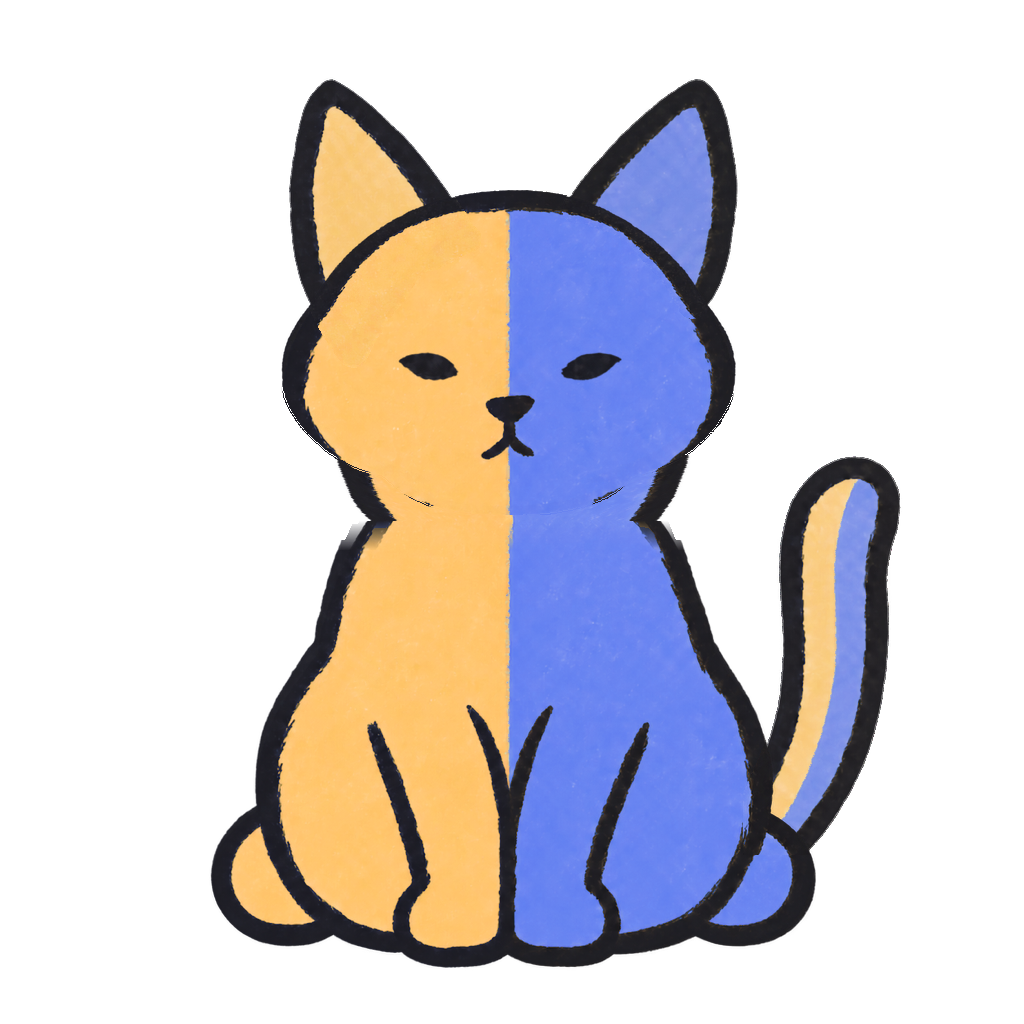
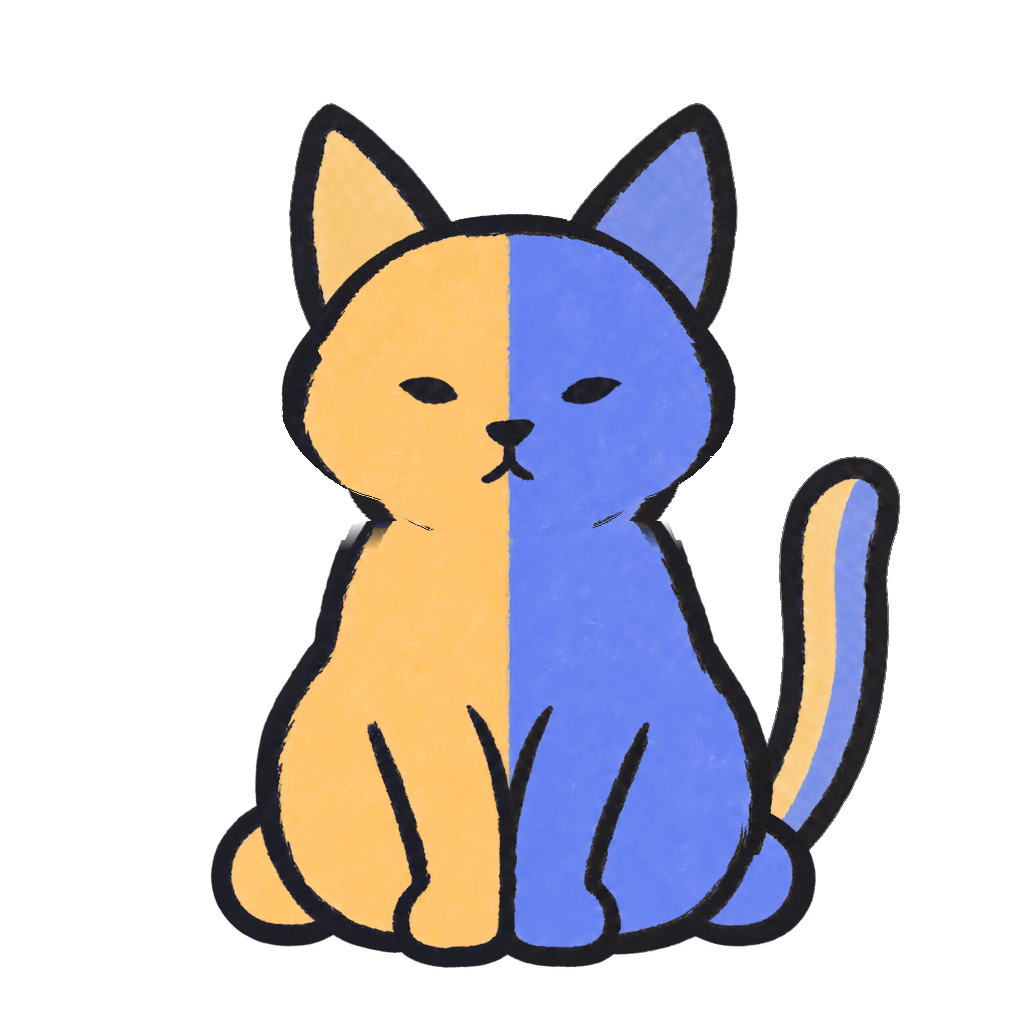
fix(pet): review fixes — close cheek pinholes, pixel-align the head drop
- A flood fill of the composite from outside found 126 enclosed
  see-through pixels along the inside of the cheek outlines; they're
  filled on the body layer with the nearest solid colour (0 remain) and
  the body's runtime copies are regenerated.
- cat-assembled-reference.png is regenerated with the head drop, so it
  matches what the app draws.
- The head drop moves into SharedPet's size-memoised pivots, rounded to a
  device pixel so the head's outline meets the body's cheek line on the
  same pixel grid; a plain View replaces the static Animated.View.
- The "never position a layer on its own" comment and CLAUDE.md rule now
  name the grouped head exception.

Claude-Session: https://claude.ai/code/session_012EzchSAnQHcjqHSd5QfHXD

Changed region(s): [[0.25, 0.0625, 0.7188, 0.5], [0.375, 0.3438, 0.625, 0.4688]]

diff --git a/src/components/SharedPet.tsx b/src/components/SharedPet.tsx
@@ -3,8 +3,10 @@ import {
   AccessibilityInfo,
   AppState,
   Image,
+  PixelRatio,
   Pressable,
   StyleSheet,
+  View,
 } from 'react-native';
 import Animated, {
   cancelAnimation,
@@ -21,6 +23,8 @@ import type { PetMood } from '@/types';
 
 // Hand-drawn layers on one shared square canvas: each is absolute-fill and
 // must never be cropped or positioned on its own, or the cat falls apart.
+// The one exception is deliberate and grouped: head, ears and eyes move
+// together by `headDrop` (see the pivots below).
 // Metro picks the @1x/@2x/@3x file (260/520/780px) for the screen.
 const BODY = require('../../assets/cat/runtime/cat-body.png');
 const HEAD = require('../../assets/cat/runtime/cat-head.png');
@@ -40,11 +44,6 @@ const LAYERS = {
 };
 type LayerName = keyof typeof LAYERS;
 
-// The head group (head, ears, eyes) sits this fraction of the canvas lower
-// than drawn -- 24px of the 1024 source. It shortens the neck and tucks the
-// body's cheek outline behind the head. Done here rather than by moving the
-// pixels, so the source art stays as drawn and the amount is one number.
-const HEAD_DROP = 24 / 1024;
 const LAYER_COUNT = Object.keys(LAYERS).length;
 
 // Development only: there the layers are served by Metro, through a tunnel
@@ -380,6 +379,17 @@ export default function SharedPet({
       tail: { transformOrigin: [size * 0.749, size * 0.7969, 0] },
       leftEar: { transformOrigin: [size * 0.3779, size * 0.2666, 0] },
       rightEar: { transformOrigin: [size * 0.627, size * 0.2461, 0] },
+      // The head group (head, ears, eyes) sits 24/1024 of the canvas lower
+      // than drawn: it shortens the neck and tucks the body's cheek outline
+      // behind the head. In code rather than moved pixels, so the art stays
+      // as drawn. Rounded to a device pixel so the head's outline lands on
+      // the same pixel grid as the body's cheek line it has to meet.
+      // assets/cat/cat-assembled-reference.png is composited with this drop.
+      headDrop: {
+        transform: [
+          { translateY: PixelRatio.roundToNearestPixel((size * 24) / 1024) },
+        ],
+      },
     }),
     [size]
   );
@@ -420,12 +430,7 @@ export default function SharedPet({
         <Animated.View style={[styles.layer, pivots.breath, breathStyle]}>
           {layer('body')}
           {/* Head, ears and eyes move as one group, lowered onto the body. */}
-          <Animated.View
-            style={[
-              styles.layer,
-              { transform: [{ translateY: size * HEAD_DROP }] },
-            ]}
-          >
+          <View style={[styles.layer, pivots.headDrop]}>
             <Animated.View style={[styles.layer, pivots.leftEar, leftEarStyle]}>
               {layer('leftEar')}
             </Animated.View>
@@ -437,7 +442,7 @@ export default function SharedPet({
             {layer('head')}
             {layer('eyesOpen', eyesOpenStyle)}
             {layer('eyesClosed', eyesClosedStyle)}
-          </Animated.View>
+          </View>
         </Animated.View>
       </Animated.View>
     </Pressable>

diff --git a/CLAUDE.md b/CLAUDE.md
@@ -535,12 +535,19 @@ line of copy per mood was dropped at the user's request.
 `src/components/SharedPet.tsx` stacks transparent raster layers from
 `assets/cat/runtime`: tail, body, separate ears, head, then one eye layer.
 Metro selects the 260/520/780 (`1x`/`2x`/`3x`) PNG automatically. The head
-group (head, ears, eyes) is drawn `HEAD_DROP` (24/1024 of the canvas) lower
-than the art, set in code rather than by moving pixels; the body's neck
+group (head, ears, eyes) is drawn `headDrop` (24/1024 of the canvas, rounded
+to a device pixel; in `SharedPet`'s pivots) lower than the art, set in code
+rather than by moving pixels, and `cat-assembled-reference.png` is composited
+with that drop; the body's neck
 reaches up behind the head with its outline wrapped around the cheeks, so
-the drop hides the neck seam instead of opening a gap (2026-09-25). Every layer
+the drop hides the neck seam instead of opening a gap (2026-09-25). 126
+see-through pinhole pixels along the inside of the cheek outlines were then
+filled on the body layer with the nearest solid colour, found by a flood
+fill of the composite from outside. Every layer
 shares one square coordinate system, so it must stay absolute-fill and must
-not be independently cropped or positioned. The palette follows the app's
+not be independently cropped or positioned — except as a group: head, ears
+and eyes move together by `headDrop` (below), and layers inside a group move
+with it. The palette follows the app's
 crossover convention: day-orange/partner on the viewer's left,
 night-blue/you on the right; the tail carries the same split without an ink
 divider. The approved 1024px source art remains in `assets/cat`, with the

diff --git a/docs/testing-log.md b/docs/testing-log.md
@@ -2334,3 +2334,7 @@ and all seven layers checked against their sources at @1x/@2x/@3x. The head
 group was then lowered 24/1024 in code (`HEAD_DROP`), previewed at 0/16/32/48
 before choosing, which also covers a faint seam under the chin. Remaining,
 minor: a few smudged pixels where each cheek line meets its shoulder line.
+Code review then found 126 enclosed see-through pixels along the inside of
+the cheek outlines (flood fill of the composite from outside); they were
+filled on the body layer with the nearest solid colour, re-checked at 0
+remaining, and the reference image was regenerated with the head drop.
